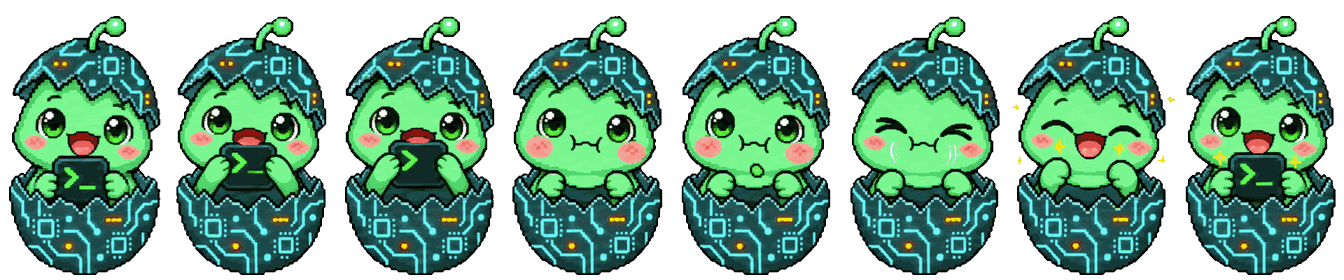
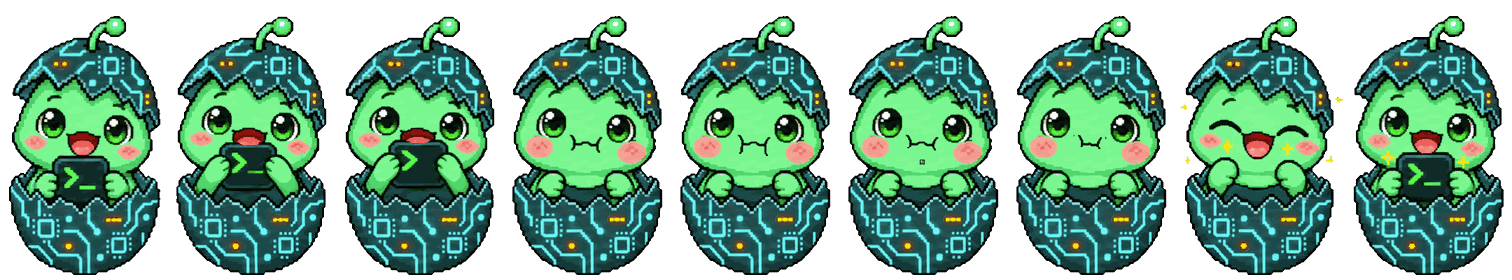
Mascotte : le mâchage ne bouge plus que la bouche (mâchoire qui monte et descend, miette, déglutition) [skip ci]
Claude-Session: https://claude.ai/code/session_01Divag9b9e52aPY37DGRpjJ

diff --git a/site/src/worker.js b/site/src/worker.js
@@ -1019,9 +1019,9 @@ main{max-width:1040px;margin:0 auto;padding:30px 20px 80px}
 .sol{width:46%;height:10px;margin-top:10px;background:rgba(92,255,149,.18);animation:sol 2.6s steps(6) infinite alternate}
 @keyframes flotte{to{transform:translateY(-14px)}}
 @keyframes sol{to{transform:scaleX(.8);opacity:.6}}
-.mascotte.mange{aspect-ratio:240/400;background:url(/mascotte_mange.png) 0 0/800% 100% no-repeat;cursor:pointer}
-.mascotte.croque{animation:flotte 2.6s steps(6) infinite alternate,croque 4.24s step-end 1}
-@keyframes croque{0.0%{background-position-x:0.0%}16.5%{background-position-x:14.286%}20.3%{background-position-x:28.571%}24.8%{background-position-x:42.857%}29.5%{background-position-x:57.143%}34.0%{background-position-x:42.857%}38.4%{background-position-x:57.143%}42.9%{background-position-x:42.857%}47.4%{background-position-x:71.429%}55.0%{background-position-x:85.714%}68.2%{background-position-x:100.0%}78.8%{background-position-x:0.0%}100%{background-position-x:0}}
+.mascotte.mange{aspect-ratio:240/400;background:url(/mascotte_mange.png) 0 0/900% 100% no-repeat;cursor:pointer}
+.mascotte.croque{animation:flotte 2.6s steps(6) infinite alternate,croque 4.51s step-end 1}
+@keyframes croque{0.0%{background-position-x:0.0%}15.5%{background-position-x:12.5%}19.3%{background-position-x:25.0%}23.7%{background-position-x:37.5%}27.5%{background-position-x:50.0%}30.8%{background-position-x:37.5%}33.9%{background-position-x:62.5%}37.3%{background-position-x:50.0%}40.6%{background-position-x:37.5%}43.7%{background-position-x:62.5%}47.0%{background-position-x:37.5%}51.0%{background-position-x:75.0%}56.8%{background-position-x:87.5%}70.1%{background-position-x:100.0%}80.0%{background-position-x:0.0%}100%{background-position-x:0}}
 @media (prefers-reduced-motion:reduce){.mascotte,.sol,.curseur{animation:none}}
 .apercu{display:grid;gap:14px;grid-template-columns:repeat(auto-fill,minmax(96px,1fr));margin:18px 0}
 .apercu a{display:grid;place-items:center;aspect-ratio:1;margin:2px;position:relative}
